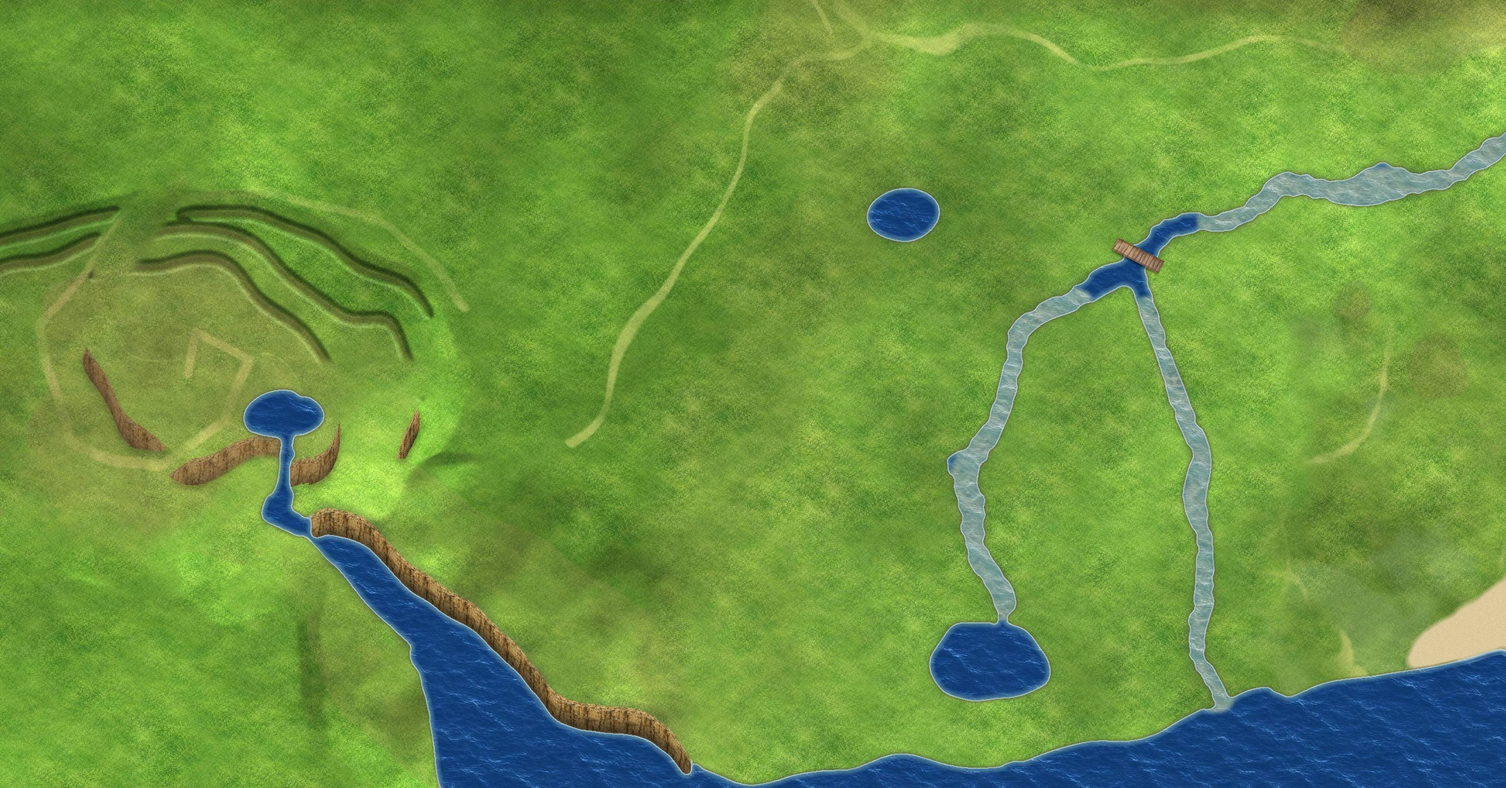
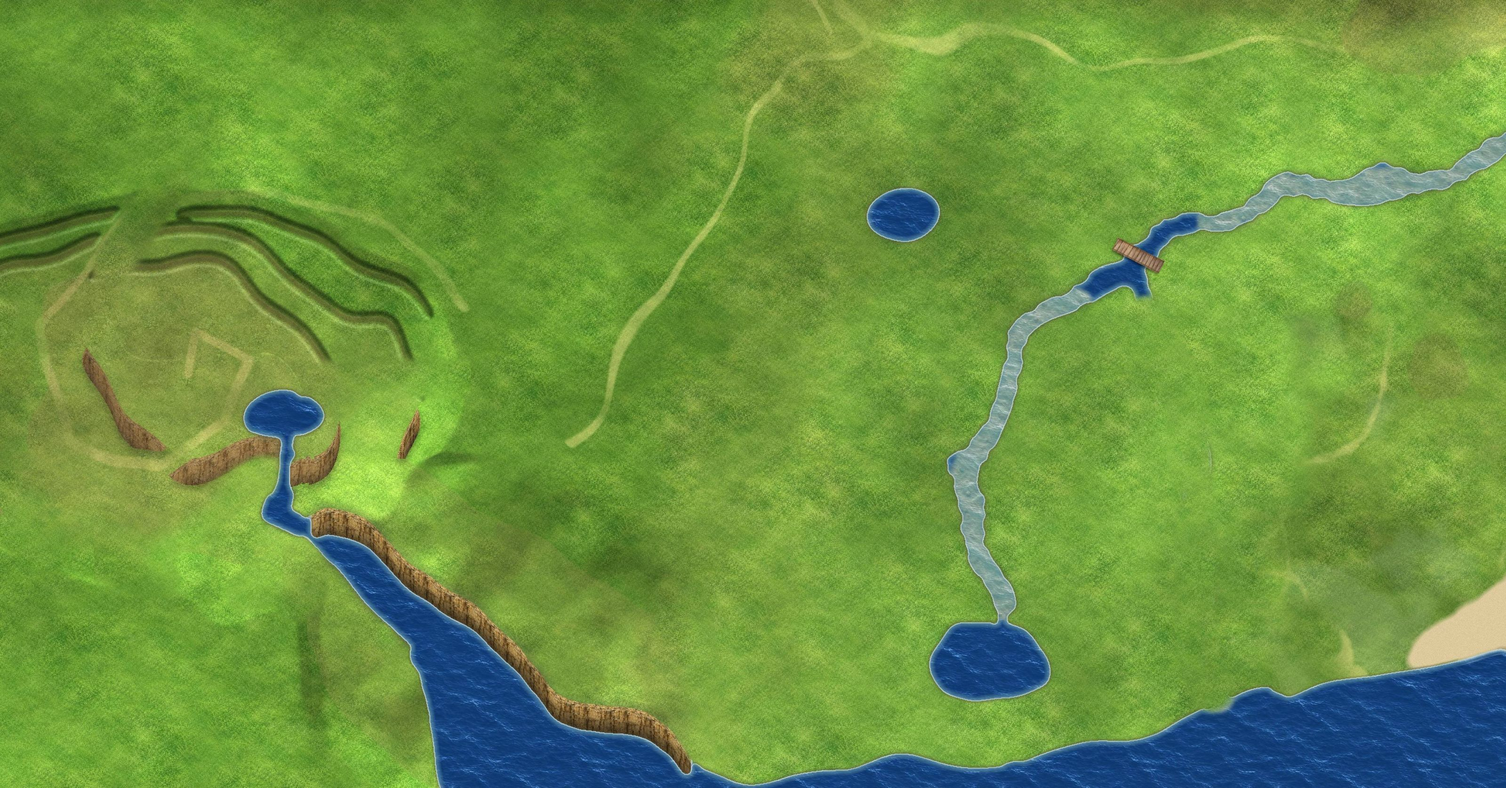
地图：右侧那条浅滩小河填平成草原（open_paths 加 fill 参数可填浅滩）
Claude-Session: https://claude.ai/code/session_011WrGna6yNwTfpmyp4CxMHs

Changed region(s): [[0.75, 0.3723, 0.8438, 0.8998]]

diff --git a/tools/open_paths.py b/tools/open_paths.py
@@ -4,7 +4,7 @@ import json,sys,os,numpy as np,cv2
 from PIL import Image
 Image.MAX_IMAGE_PIXELS=None
 R=os.path.dirname(os.path.dirname(os.path.abspath(__file__)));M=R+'/assets/map/'
-L=json.load(open(sys.argv[1]));WID=float(sys.argv[2]) if len(sys.argv)>2 else 40
+L=json.load(open(sys.argv[1]));WID=float(sys.argv[2]) if len(sys.argv)>2 else 40;FILL='fill' in sys.argv   # fill：浅滩也填成草地
 J=json.load(open(R+'/data/world.json'));HD=J['HD'];T=J['tiles']['T'];W,H=J['WW'],J['WH']
 full=np.zeros((H*HD,W*HD,3),np.uint8)
 for t in J['tiles']['list']:
@@ -17,7 +17,8 @@ for s in L:
     else:cv2.polylines(mask,[pts],False,255,int(WID*HD),lineType=cv2.LINE_AA)
 f=full.astype(int);water=(f[...,2]>f[...,1]+10)&(f[...,2]>90)   # 水面不动
 water=cv2.dilate(water.astype(np.uint8),np.ones((9,9),np.uint8))>0
-m=(mask>0)&~water
+cc=np.array(Image.open(M+'coll.png').convert('RGB'))[...,0];deep=cv2.resize((cc==1).astype(np.uint8),(W*HD,H*HD),interpolation=cv2.INTER_NEAREST)>0
+m=(mask>0)&(~(water&deep) if FILL else ~water)
 # 草地纹理：取地图中部一块平坦草地（同一画风），做成无缝后平铺，再按周围颜色校正
 S=int(200*HD);best=None
 for py in range(100*HD,(H-260)*HD,60*HD):   # 自动找一块最纯的草地（不含水、崖、路）
@@ -38,7 +39,7 @@ for t in J['tiles']['list']:
     tx,ty=int(t[1]),int(t[2]);Image.fromarray(out[ty*T*HD:(ty+1)*T*HD,tx*T*HD:(tx+1)*T*HD]).save(M+t+'.jpg',quality=80,optimize=True)
 # 碰撞：涂到的地方（非水）改成可走
 c=np.array(Image.open(M+'coll.png').convert('RGB'));ms=cv2.resize(m.astype(np.uint8),(W,H),interpolation=cv2.INTER_AREA)>0
-c[...,0][ms&(c[...,0]==1)]=0;Image.fromarray(c).save(M+'coll.png')
+c[...,0][ms&((c[...,0]==1)|((c[...,0]==2) if FILL else False))]=0;Image.fromarray(c).save(M+'coll.png')
 # 物件：路上的移走
 n0=len(J['objs']);J['objs']=[o for o in J['objs'] if not (0<=o[2]<H and 0<=o[1]<W and ms[min(H-1,int(o[2])),min(W-1,int(o[1]))]) or 'bridge' in o[0]]
 J['ver']=J.get('ver',0)+1;json.dump(J,open(R+'/data/world.json','w'),ensure_ascii=False,separators=(',',':'))
